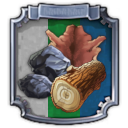
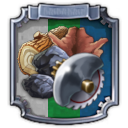
1

Changed region(s): [[0.125, 0.1875, 0.8438, 0.9062]]

diff --git a/job_adertisements.md b/job_adertisements.md
@@ -6,7 +6,7 @@
   <summary><img src="./doc/job_adertisements/icon_building_trade_union.png" width="20" /> Trade Union</summary>
 
 - <details>
-  <summary><img src="./doc/job_adertisements/forestry/icon_forestry_1.png" width="20" /><img src="./doc/job_adertisements/forestry/icon_forestry_2.png" width="20" /> Forestry</summary>
+  <summary><img src="./doc/job_adertisements/forestry/icon_forestry_1.png" width="20" /><img src="./doc/job_adertisements/forestry/icon_forestry_2.png" width="20" /> Forestry/Carpenter</summary>
 
   - <img src="./doc/job_adertisements/forestry/icon_forestry_1.png" width="20" /> "Common/Uncommon/Rare"
     - Common
@@ -24,13 +24,16 @@
     - Rare
       - <img src="./doc/job_adertisements/forestry/icon_explorer_716.png" width="20" /> Park Ranger
       - <img src="./doc/job_adertisements/forestry/icon_hunter_native.png" width="20" /> Expert Hunter
+      - <img src="./doc/job_adertisements/forestry/icon_worker_106.png" width="20" /> Cabinet-Maker
 
   - <img src="./doc/job_adertisements/forestry/icon_forestry_2.png" width="20" /> "Epic/Legendary"
     - Epic
       - <img src="./doc/job_adertisements/forestry/icon_forester_401.png" width="20" /> Miss Rodriguez
       - <img src="./doc/job_adertisements/forestry/icon_hunter_common.png" width="20" /> Wild Frontiersman Steen
+      - <img src="./doc/job_adertisements/forestry/icon_worker_202.png" width="20" /> Master Craftsman Morris
     - Legendary
       - <img src="./doc/job_adertisements/forestry/icon_hunter_300.png" width="20" /> Ursula Green
+      - <img src="./doc/job_adertisements/forestry/icon_well_dressed_107.png" width="20" /> Seraphim Papadikas, The Window Dresser
 
 </details>
 
